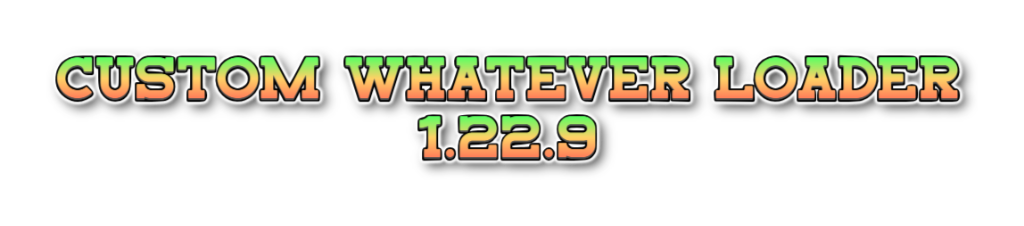
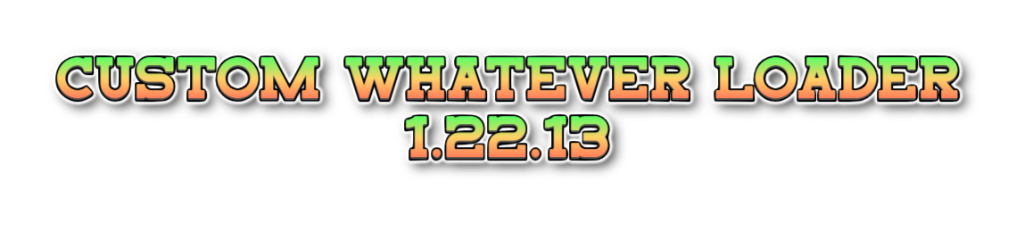
fix(CWL): bgm id misalignment

Changed region(s): [[0.375, 0.4956, 0.625, 0.7743]]

diff --git a/CustomWhateverLoader/API/Custom/Playlist/PlaylistBuilder.cs b/CustomWhateverLoader/API/Custom/Playlist/PlaylistBuilder.cs
@@ -10,6 +10,7 @@ using ReflexCLI.Attributes;
 
 namespace Cwl.API.Custom;
 
+[ConsoleCommandClassCustomizer("cwl.pl")]
 public partial class CustomPlaylist
 {
     public static bool AddOrReplaceBGM(string bgmId)
@@ -22,6 +23,8 @@ public partial class CustomPlaylist
         if (data == null) {
             return false;
         }
+
+        data.name = bgmId[4..];
 
         // unassigned id
         if (data.id <= 0) {

diff --git a/CustomWhateverLoader/Loader/CustomWhateverLoader.cs b/CustomWhateverLoader/Loader/CustomWhateverLoader.cs
@@ -22,7 +22,7 @@ public static class ModInfo
     public const string Guid = "dk.elinplugins.customdialogloader";
     public const string Name = "Custom Whatever Loader";
 
-    public const string Version = "1.22.12";
+    public const string Version = "1.22.13";
 
     // for runtime versions
     public static string BuildVersion => field ??= CwlMod.Assembly.GetName().Version.ToString();
